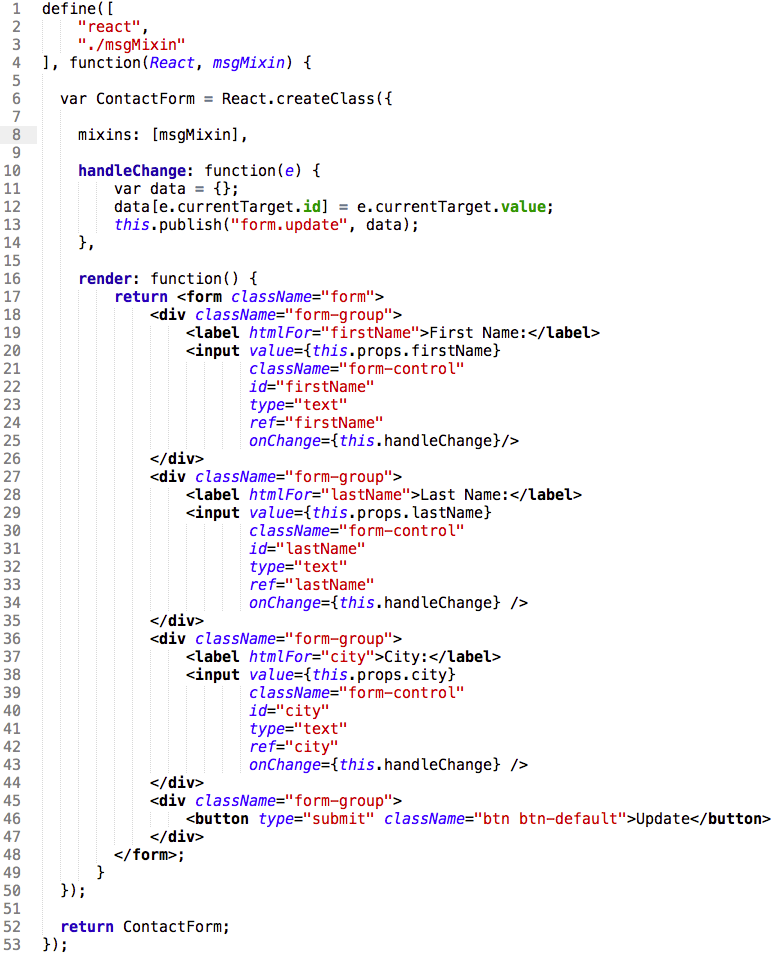
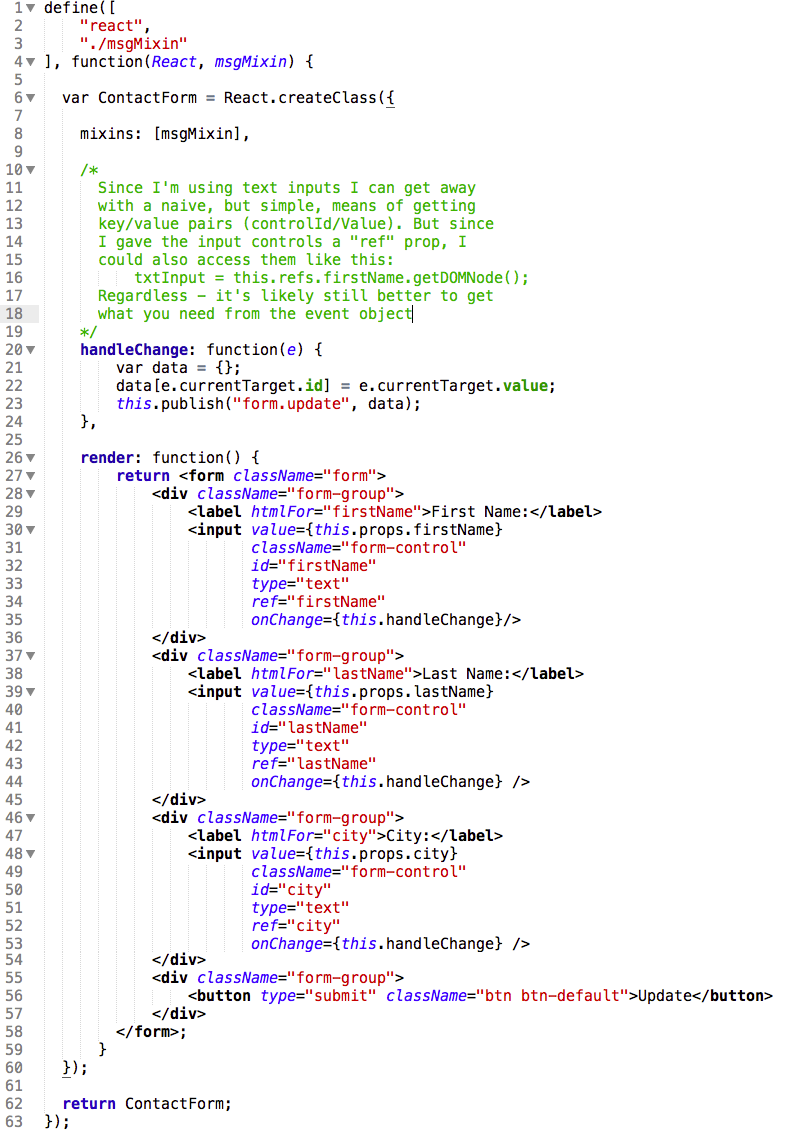
Updated for NoogaJS presentation

Changed region(s): [[0.0, 0.0, 0.9897, 1.0], [0.1546, 0.9423, 0.2784, 1.0]]

diff --git a/src/js/app/slides/kitteh-grid-example/KittehGrid.jsx b/src/js/app/slides/kitteh-grid-example/KittehGrid.jsx
@@ -2,10 +2,9 @@
 define([
   "react",
   "jsx!./KittehRow",
-  "lodash",
   "postal",
   "./stateGenerator",
-], function(React, KittehRow, _, postal, stateGenerator) {
+], function(React, KittehRow, postal, stateGenerator) {
 
 	var channel = postal.channel("kitty");
 
@@ -24,7 +23,7 @@ define([
   		this.subscription.unsubscribe();
   	},
 
-  	componentWillReceiveProps: function() {
+  	componentWillReceiveProps: function(nextProps) {
   		this.updateWithGeneratedState();
   	},
 
@@ -44,7 +43,7 @@ define([
     									key={ idx }
     									widths={ widths }
     									height={ height }
-    									maxWidth={ this.props.width + 20 }
+                      maxWidth={ this.props.width + 20 }
     							 />
 					}.bind(this))
 				}

diff --git a/src/js/app/slides/form-overlay-example/ContactForm.jsx b/src/js/app/slides/form-overlay-example/ContactForm.jsx
@@ -7,6 +7,16 @@ define([
 
     mixins: [msgMixin],
     
+    /*
+      Since I'm using text inputs I can get away
+      with a naive, but simple, means of getting
+      key/value pairs (controlId/Value). But since
+      I gave the input controls a "ref" prop, I 
+      could also access them like this:
+          txtInput = this.refs.firstName.getDOMNode();
+      Regardless - it's likely still better to get
+      what you need from the event object
+    */
     handleChange: function(e) {
         var data = {};
         data[e.currentTarget.id] = e.currentTarget.value;

diff --git a/src/js/app/slides/component-lifecycle-2/slide.jsx b/src/js/app/slides/component-lifecycle-2/slide.jsx
@@ -11,7 +11,7 @@ define([
                     <li>Called when a component is receiving new props.</li>
                     <li>Old props can still be accessed via <code>this.props</code> and new props are passed into the method.</li>
                 </ul>
-                <img className="top-breathing-room slide-image" src={this.props.imageDir + "willprops.png"} />
+                <img width="700" className="top-breathing-room slide-image" src={this.props.imageDir + "willprops.png"} />
             </TitledSlide>;
        }
     });

diff --git a/src/js/app/slides/kitteh-grid-example/slide.jsx b/src/js/app/slides/kitteh-grid-example/slide.jsx
@@ -11,19 +11,19 @@ define([
 
     	getInitialState: function() {
     		return {
-    			rows: 3
+    			rowCount: 3
     		}
     	},
 
     	tryAgain: function() {
-    		this.setState({ rows: _.random(2,3) });
+    		this.setState({ rowCount: _.random(2,3) });
     	},
 
 		render: function() {
 			return <TitledSlide title="Composing Components">
 				<div className="kitties">
 						<KittehGrid
-							rows={this.state.rows}
+							rows={this.state.rowCount}
 							minKitty="2"
 							maxKitty="5"
 							width="780"
